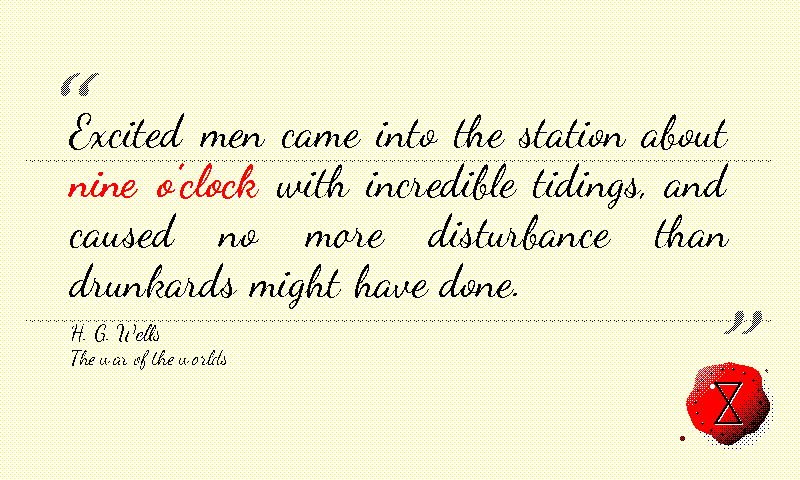
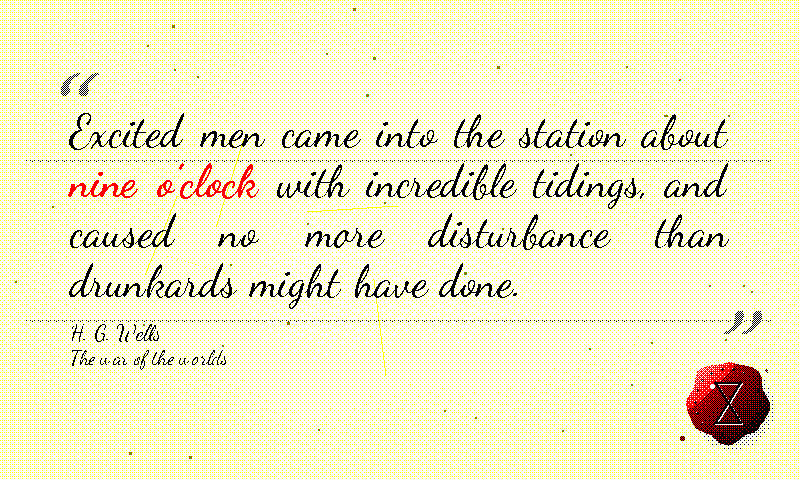
letter: oxblood-maroon seal + aged/crumpled paper texture
Seal: re-anchor the wax dome's shading ramp on maroon (R+K) instead of
pure red. Pure red now survives only on the lit upper-left shoulder,
white dithers in for the coral gloss, and black density climbs past 50%
toward the rim into a near-black core shadow — so the bead reads as a
dark oxblood sealing wax rather than fire-engine red. The matched-phrase
red now echoes the seal's lit highlight rather than matching its body.

Paper: replace the flat 1-in-8 cream wash with three stacked
Spectra-6-native textures so the sheet reads as aged, lightly-crumpled
letter paper — (a) an uneven cream tan (edge vignette + low-amplitude
mottle + fine per-pixel grain jitter), (b) deterministic seeded foxing
(small 2x2/3x3 red/green checkerboard blocks that average to rust-brown,
edge-biased), and (c) crumple creases (the two structured fold creases
plus a few soft tonal wrinkles rendered as a cream ridge + white relief
rather than black scratches). Seeded via _LETTER_PAPER_SEED so renders
stay byte-identical.

Preview thumbnail + CLAUDE.md updated.

https://claude.ai/code/session_01FYZREtpS185ko8mcXkDyp9

Changed region(s): [[0.8438, 0.75, 0.9688, 0.9062]]

diff --git a/idle_hours/render_quote.py b/idle_hours/render_quote.py
@@ -1066,8 +1066,9 @@ THEMES = {
     # with ``dispatch`` / ``illuminated`` / ``herbarium`` / ``mucha``),
     # black iron-gall ink for the flowing Dancing Script body, and
     # sealing-wax red for the matched time phrase — the one passage the
-    # correspondent pressed harder on, tied tonally to the red wax seal
-    # the border stamps into the bottom-right corner. The oversized
+    # correspondent pressed harder on, echoing the lit-red highlight of
+    # the oxblood / maroon wax seal the border stamps into the
+    # bottom-right corner. The oversized
     # opening quote mark renders in Pinyon Script copperplate via the
     # faux-gray ornament path (ornament_dark=black / ornament_light=white
     # → a delicate 50/50 half-density flourish, reading as a pale pen
@@ -10815,9 +10816,16 @@ def draw_cartograph_border(
         draw.line((tcx, tcy - tick_arm, tcx, tcy + tick_arm), fill=black_ink, width=1)
 
 
+# Fixed seed for the letter theme's aged-paper texture (foxing scatter +
+# crumple wrinkles), so re-renders of a given time stay byte-identical —
+# same fixed-seed invariant as ``_SALOON_FOXING`` / ``_FIRMAMENT_STAR_SEED``.
+_LETTER_PAPER_SEED = 0x1E77E2
+
+
 def draw_letter_border(image: Image.Image, colors: dict) -> None:
-    """Wax-sealed letter decoration: aged-paper ground + fold creases +
-    a pressed red wax seal in the bottom-right corner.
+    """Wax-sealed letter decoration: aged, lightly-crumpled paper ground +
+    fold/crumple creases + a pressed oxblood / maroon wax seal in the
+    bottom-right corner.
 
     The composition deliberately stays in the margins so the standard
     literary layout paints the flowing-script body text cleanly on top
@@ -10826,35 +10834,46 @@ def draw_letter_border(image: Image.Image, colors: dict) -> None:
     never reaches the corner the seal occupies). Layers, painted bottom
     to top:
 
-    * **Layer 0 — sparse 1-in-8 yellow-on-white Bayer cream wash.** The
-      documented Y+W cream recipe (same Bayer threshold ``dispatch`` /
-      ``illuminated`` / ``herbarium`` / ``mucha`` use): ~12.5% of the
-      white ``page_bg`` pixels flip to yellow, averaging at panel
-      distance into the faint cream/vellum of aged letter paper. Lives
-      natively on the Spectra-6 palette, so ``snap_image_to_palette`` is
-      a no-op and the script glyph edges stay crisp.
-    * **Two horizontal fold creases** at the thirds of the page — the
-      folds a letter picks up when tucked into an envelope. Drawn as a
-      faint 1 px black stipple (one dot every few pixels) so they read
-      as a soft pressed line rather than a hard rule, with a single
-      lighter "valley" dot row just below each crease for a hint of
-      depth. Text overpaints them, exactly as ink sits over a fold.
+    * **Layer 0 — aged, lightly-crumpled paper.** Three stacked textures,
+      all native to the Spectra-6 palette (so ``snap_image_to_palette``
+      is a no-op and the script glyph edges stay crisp): (a) an **uneven
+      cream tan** — the documented Y+W yellow cream wash, but its density
+      is modulated by a cheap low-frequency mottle field (precomputed
+      per-row / per-column sine tables, no per-pixel trig) plus an
+      edge-weighted vignette, so the sheet tans more at the margins and
+      in soft patches the way real aged paper does rather than as a flat
+      tint; (b) **foxing** — a deterministic seeded scatter of small R+G
+      sepia age spots (the documented brown recipe), biased toward the
+      edges; and (c) **crumple creases** (below).
+    * **Crumple creases** — two horizontal fold creases at the thirds of
+      the page (the folds a letter picks up tucked into an envelope) plus
+      a handful of fainter short random-angle wrinkles (the creases a
+      re-opened sheet keeps). All sparse 1 px black stipple painted only
+      on bare paper / cream, so they read as soft pressed lines without
+      muddying the foxing; the body text overpaints them, exactly as ink
+      sits over a fold.
     * **The wax seal** in the bottom-right corner — the hero graphic.
-      A pressed bead of sealing wax: an irregular scalloped red disc
+      A pressed bead of dark **oxblood / maroon** sealing wax rendered as
+      a glossy dome lit from the upper-left: an irregular scalloped disc
       (two summed sinusoids vary the rim radius so it reads as hand-
-      pressed wax, not a clean circle), a directional oxblood shadow on
-      its lower-right (the documented R+K 1:1 maroon recipe applied via
-      a bbox ``(x+y)&1`` post-pass, but only on the shadow-side pixels,
-      so the bead reads as a lit 3D dome rather than a flat dot), a ring
-      of small maroon beads just inside the rim (the decorative beading a
-      real seal matrix presses into the wax), and a recessed **hourglass
-      emblem** carved into the centre in maroon — the time motif of the
-      clock, embossed into the wax the way a signet stamps a monogram.
-      A couple of tiny maroon spatter flecks beside the seal read as
-      stray drips. The whole seal sits at y≈height-78 / x≈width-72,
-      clear of the centred attribution and the y=14-29 debug-banner band
-      (which is why ``letter`` needs no ``_DEBUG_LABEL_RIGHT_INSET``
-      entry — its only graphic is bottom-right).
+      pressed wax, not a clean circle), shaded per-pixel via a Bayer ramp
+      anchored on maroon (R+K) — pure red survives only on the lit
+      shoulder, white dithers in for a coral gloss at the highlight, and
+      black density climbs past 50% toward the rim so the core shadow
+      deepens to near-black — plus a soft cast shadow stippled onto the
+      paper (offset down-right, fading at its edge) and a solid-white
+      specular hotspot, so the bead reads as a raised 3-D blob standing
+      proud of the page. A ring of small beads just inside the rim (each
+      shaded by its position on the dome — dark dot + a coral highlight
+      on its lit side), and a recessed **hourglass emblem** carved into
+      the centre — the time motif of the clock, each groove a maroon
+      stroke with a coral bevel on its far inner wall so it reads as
+      engraved into the wax. A couple of tiny maroon spatter flecks
+      beside the seal read as stray drips. The whole seal sits at
+      y≈height-78 / x≈width-72, clear of the centred attribution and the
+      y=14-29 debug-banner band (which is why ``letter`` needs no
+      ``_DEBUG_LABEL_RIGHT_INSET`` entry — its only graphic is
+      bottom-right).
     """
     draw = ImageDraw.Draw(image)
     width, height = image.size
@@ -10865,17 +10884,77 @@ def draw_letter_border(image: Image.Image, colors: dict) -> None:
     cream_light = SPECTRA6["yellow"]
     pixels = image.load()
 
-    # Layer 0: sparse 1-in-8 yellow-on-white cream wash. Defence in depth:
-    # only pixels still matching page_bg are touched.
+    sepia_a = SPECTRA6["red"]
+    sepia_b = SPECTRA6["green"]
+    rng = random.Random(_LETTER_PAPER_SEED)
+
+    # ---- Layer 0: aged, lightly-crumpled paper ------------------------
+    # Three stacked textures turn the panel's flat white into an aged
+    # letter sheet, all native to the Spectra-6 palette (every output
+    # pixel is one of the six inks, so palette-snap is a no-op and the
+    # script glyphs that paint on top stay crisp). Deliberately subtle —
+    # the textures should read at arm's length as "old paper", not as a
+    # pattern competing with the handwriting:
+    #
+    #   (a) Uneven cream tan. The yellow cream-wash density is no longer
+    #       uniform — a gentle edge vignette (the sheet tans more at the
+    #       margins) plus a low-amplitude mottle (precomputed per-row /
+    #       per-column sine tables, no per-pixel trig) and a fine per-pixel
+    #       grain jitter, so the cream breaks up into an organic fibrous
+    #       tone instead of a flat tint. Centre ≈9% yellow, corners ≈14%.
+    #   (b) Foxing. A deterministic seeded scatter of small R+G sepia age
+    #       spots (the documented brown recipe — each spot is a ≥1-radius
+    #       cluster carrying both red and green pixels so it averages to
+    #       rust-brown at panel distance rather than reading as a lone
+    #       red/green speck), biased toward the edges where foxing
+    #       concentrates.
+    #   (c) Crumple creases — see below the wash.
     if page_bg is not None:
+        col = [math.sin(x * 0.013) + 0.6 * math.sin(x * 0.031 + 1.7) for x in range(width)]
+        row_mottle = [math.sin(y * 0.015 + 0.5) + 0.6 * math.sin(y * 0.029 + 2.3) for y in range(height)]
+        half_w = max(1.0, width * 0.5)
+        half_h = max(1.0, height * 0.5)
         for y in range(height):
-            row = BAYER_4x4[y & 3]
+            brow = BAYER_4x4[y & 3]
+            ry = row_mottle[y]
+            edge_y = 1.0 - min(y, height - 1 - y) / half_h
             for x in range(width):
-                if pixels[x, y] == page_bg and row[x & 3] < 2:
+                if pixels[x, y] != page_bg:
+                    continue
+                edge_x = 1.0 - min(x, width - 1 - x) / half_w
+                edge = edge_x if edge_x > edge_y else edge_y
+                mottle = (col[x] + ry) * 0.5
+                grain = (((x * 131 + y * 57) % 17) - 8) / 8.0
+                density = 0.085 + 0.05 * (edge * edge) + 0.02 * mottle + 0.02 * grain
+                if brow[x & 3] < density * 16:
                     pixels[x, y] = cream_light
 
-    # Fold creases at the thirds. Faint dotted black line + a lighter
-    # valley row one pixel below. Sparse spacing keeps them subtle.
+        # (b) Foxing: small brown spots, each a square red/green
+        # checkerboard block (2×2 or 3×3) so every spot carries a balanced
+        # red+green pair and averages to rust-brown — a circular mask
+        # would leave colour-imbalanced plus-shapes that read as lone
+        # green or red specks. Biased toward a random edge.
+        n_spots = max(10, (width * height) // 9000)
+        for _ in range(n_spots):
+            fx = int(rng.triangular(0, width - 1, rng.choice((0, width - 1))))
+            fy = int(rng.triangular(0, height - 1, rng.choice((0, height - 1))))
+            spot_w = rng.choice((2, 2, 3))
+            for dy in range(spot_w):
+                for dx in range(spot_w):
+                    px, py = fx + dx, fy + dy
+                    if 0 <= px < width and 0 <= py < height and pixels[px, py] in (page_bg, cream_light):
+                        pixels[px, py] = sepia_a if (px + py) & 1 else sepia_b
+
+    # ---- Crumple creases ----------------------------------------------
+    # Two primary fold creases at the thirds (the folds that put a letter
+    # in an envelope), rendered as a faint dotted black stipple, plus a
+    # few soft random-angle crumple wrinkles rendered *tonally* (a thin
+    # cream ridge with a white highlight relief on its lit side) rather
+    # than as black ink — so they read as the light catching a wrinkle
+    # in the sheet rather than as scratches. All painted only on bare
+    # paper / cream so they don't muddy the foxing; the body text
+    # overpaints them, exactly as ink sits over a fold.
+    paper_tones = (page_bg, cream_light)
     margin = 26
     crease_step = 4
     for frac in (1, 2):
@@ -10883,12 +10962,29 @@ def draw_letter_border(image: Image.Image, colors: dict) -> None:
         if cy + 1 >= height:
             continue
         for x in range(margin, width - margin, crease_step):
-            pixels[x, cy] = ink
-            # Valley dot half a step along, one row down — a sparser,
-            # offset second row reads as the soft shadow of the fold.
+            if pixels[x, cy] in paper_tones:
+                pixels[x, cy] = ink
             vx = x + crease_step // 2
-            if vx < width - margin and (x // crease_step) & 1:
+            if vx < width - margin and (x // crease_step) & 1 and pixels[vx, cy + 1] in paper_tones:
                 pixels[vx, cy + 1] = ink
+
+    # Soft tonal crumple wrinkles: a cream ridge + white highlight relief.
+    if page_bg is not None:
+        for _ in range(5):
+            wx = rng.randint(60, max(61, width - 60))
+            wy = rng.randint(50, max(51, height - 50))
+            angle = rng.uniform(0.0, math.pi)
+            length = rng.randint(50, 130)
+            dxu, dyu = math.cos(angle), math.sin(angle)
+            nxp, nyp = -dyu, dxu  # unit perpendicular → highlight side
+            for s in range(length):
+                px = int(wx + (s - length // 2) * dxu)
+                py = int(wy + (s - length // 2) * dyu)
+                if 0 <= px < width and 0 <= py < height and pixels[px, py] in paper_tones:
+                    pixels[px, py] = cream_light
+                hx, hy = int(px + nxp), int(py + nyp)
+                if 0 <= hx < width and 0 <= hy < height and pixels[hx, hy] in paper_tones:
+                    pixels[hx, hy] = page_bg
 
     # ---- Wax seal (bottom-right) -------------------------------------
     # Scale the seal to the canvas so small preview thumbnails still get a
@@ -10954,14 +11050,20 @@ def draw_letter_border(image: Image.Image, colors: dict) -> None:
     bx1 = min(width - 1, scx + rim)
     by1 = min(height - 1, scy + rim)
 
-    # (3) Dome shading ramp. For every red pixel, ``t`` is the shadow
-    # amount (0 = fully lit, 1 = deepest shadow): a directional term
-    # (dot of the surface offset with the light vector) plus a rim-
-    # darkening term that only bites on the shadow side, so the lit
-    # upper-left shoulder stays bright to the edge (rim light) while the
-    # lower-right curves into core shadow. ``t`` is then ordered-dithered
-    # via the shared 4×4 Bayer matrix into coral highlight / solid red /
-    # maroon, the density ramping smoothly within each band.
+    # (3) Dome shading ramp — maroon-based oxblood wax. For every interior
+    # pixel, ``t`` is the shadow amount (0 = fully lit, 1 = deepest
+    # shadow): a directional term (dot of the surface offset with the
+    # light vector) plus a rim-darkening term that only bites on the
+    # shadow side, so the lit upper-left shoulder stays bright to the edge
+    # (rim light) while the lower-right curves into core shadow. ``t`` is
+    # then ordered-dithered via the shared 4×4 Bayer matrix into a
+    # continuous ramp anchored on **maroon** (the dominant body tone, R+K
+    # ~50/50): pure red survives only on the lit shoulder, white dithers
+    # in for a coral gloss at the very highlight, and black density climbs
+    # past 50% toward the rim so the core shadow deepens to near-black
+    # oxblood. The base ink stays ``wax_red`` (accent) between dithered
+    # pixels, so the dome reads as a dark sealing-wax oxblood rather than
+    # the fire-engine red of the previous revision.
     for py in range(by0, by1 + 1):
         for px in range(bx0, bx1 + 1):
             if pixels[px, py] != wax_red:
@@ -10977,12 +11079,18 @@ def draw_letter_border(image: Image.Image, colors: dict) -> None:
                 t += 0.06 * max(0.0, r2 - 0.55)
             t = max(0.0, min(1.0, t))
             cell = BAYER_4x4[py & 3][px & 3]
-            if t < 0.24:
-                density = (0.24 - t) / 0.24 * 0.6
+            if t < 0.25:
+                # Lit shoulder: white dithered into red for a coral gloss,
+                # brightest at the terminator-free highlight.
+                density = (0.25 - t) / 0.25 * 0.5
                 if cell < density * 16:
                     pixels[px, py] = highlight_ink
-            elif t > 0.60:
-                density = (t - 0.60) / 0.40 * 0.85
+            else:
+                # Body → core shadow: black dithered into red. ~35% black
+                # just below the highlight (warm maroon-red), through ~50%
+                # at the dome's mid-tone (true maroon), up to ~90% at the
+                # rim (near-black oxblood).
+                density = min(0.9, 0.35 + (t - 0.25) * 0.733)
                 if cell < density * 16:
                     pixels[px, py] = maroon_dark
 

diff --git a/CLAUDE.md b/CLAUDE.md
@@ -561,7 +561,7 @@ Imports `pick_quote` in-process (`pick_quote_module.select_quote`) and lays out 
   - `questline` (black night-sky ground / white body / yellow matched-phrase, Press Start 2P pixel face — an 8/16-bit JRPG dialogue scene, the seventh theme to bypass the literary layout entirely, dispatching from `render` into its own `render_questline_frame`. The whole composition is built from chunky pixels: a sky-blue (B+W checkerboard) sky band over a solid-green hill band with a forest-green (G+K) lower lip, a yellow eight-ray sun and two white pixel clouds in the top margin (`_questline_paint_sky`), and a small caped hero sprite — an 8×10 pixmap (`_QUESTLINE_HERO`) scaled ×7 with a red cap / white face / blue tunic / black boots, standing on the hill line at the right (`_questline_paint_sprite`). The quote is presented as **on-screen NPC dialogue** inside a bordered box owning the bottom ~50% of the canvas (`_questline_paint_box`): a navy (blue+black checkerboard) fill with a white double pixel frame (4-px outer rule + an inset inner rule, square corners — the pixel-authentic dialogue-box look, no smooth arcs). The **author becomes the speaker** on a small framed nameplate tab straddling the box's top-left edge (`_questline_paint_nameplate`, uppercased, truncated past 22 chars, yellow-on-navy; falls back to `NARRATOR` when the row has no author so a bare-text quote still gets a speaker). The body text is **left-aligned** (reads as dialogue, not centred prose) via the shared `fit_quote` / `wrap_styled_text` pipeline at `font_max=40` / `font_min=10` / `line_height_mult=1.6` — the high `font_max` lets short quotes scale *up* to fill the box (fit_quote steps the size down only as far as the wrapped lines need to fit the box height), so a one-line quote renders large while a dense one shrinks toward the floor; Press Start 2P reports descent 0, so the generous multiplier supplies the inter-line gap the bitmap cell omits — with the matched time-phrase painted in the `accent` yellow (the classic RPG "highlighted keyword" tint; solid, no stipple reroute needed). A static white ▼ "press to continue" arrow sits in the box's bottom-right (`_questline_paint_arrow`, static — eInk), and a `— from {Title} —` footer runs along the box's bottom inner margin (`_questline_paint_footer`, centred, size 8, truncated to clear the arrow; skipped when the row has no title). Like `marquee`, the digital HH:MM is **never surfaced** — the matched phrase in the dialogue carries the time, which is the whole point of a quote-based fuzzy clock; `time_str` is `del`-asserted at the top of `render_questline_frame` and retained only for dispatch-signature uniformity. Press Start 2P (CodeMan38, OFL — the only pixel/bitmap face in the bundle) carries the body, the matched-phrase accent, and the chrome alike; single weight, so the matched-phrase role reuses Regular and earns its differentiation from the yellow accent alone (comic / dispatch / atomic discipline). Saturation tier `0.7` (dark / saturated ground). Since it still displays a quote it stays in the button-B / auto / random rotation — only `diags` (which surfaces swatches instead of a quote) is in `RANDOM_EXCLUDED_THEMES`. No `_DEBUG_LABEL_RIGHT_INSET` entry — the custom frame paints its own composition and ignores `mode`, like the other frame themes.)
   - `chrono` (twilight-blue gradient sky / white body / yellow matched-phrase, Pixelify Sans — a **16-bit SNES JRPG** dialogue scene (Final Fantasy VI / Chrono Trigger era), the eighth theme to bypass the literary layout entirely, dispatching from `render` into its own `render_chrono_frame`. The deliberate companion / step-up to the 8-bit `questline`: where questline is flat NES bands + chunky monospace Press Start 2P, chrono shows the three things 8-bit hardware couldn't — **gradient-shaded backgrounds**, a **translucent-blue gradient dialogue window with a rounded beveled border**, and a **character portrait sub-window** — in the finer, multi-weight Pixelify Sans. `_chrono_paint_sky` paints an atmospheric twilight: a per-row Bayer **density-ramp gradient** (deep navy B+K at the zenith fading to pure blue at mid-sky, then a rising white-dither haze toward the horizon — the continuous tone flat 8-bit bands can't produce), ~70 deterministic white stars (`_CHRONO_STAR_SEED`, cleared from the moon's disc), a pale white moon with faint sky-blue (B+W) craters, and a **two-range mountain silhouette** (a solid-blue back range + a navy B+K-dithered front range via `_chrono_fill_poly`) for parallax depth. The quote sits in the iconic **FF blue window** (`_chrono_window_fill` paints a navy→blue→faint-sky-blue vertical gradient onto a private tile and pastes it through a rounded-rectangle mask so the corners read soft; `_chrono_window_border` strokes a white rounded double frame with small yellow corner-accent ticks). A **portrait sub-window** (`_chrono_paint_portrait`, same window recipe at smaller scale) carries an ornate, *shaded* **hourglass** — the "portrait" a cutscene frames beside the dialogue, and thematically exact for `chrono` (= time). A hand-built frontal face reads as crude on a 6-ink panel; a geometric object renders cleanly and lets the tonal-dither trick do real work. The hourglass uses **multi-tone shading ramps synthesised from the six inks** (`_CHRONO_ART_TONES`: cream→gold→bronze brass via Y+W / Y / R+Y, amber sand at varying R+Y density, sky-tint glass via B+W) so the brass, glass and sand read as rounded, lit volumes rather than flat shapes. `_chrono_build_hourglass` sculpts it with **vector shapes at a low logical resolution** (a brass frame — capped top/bottom with finials + two shaded side posts — two sky-tinted glass bulbs with specular streaks, and amber sand draining from a dished surface in the upper bulb through the neck as a thin stream onto a mound in the lower bulb; light from the upper-left) drawn into a tone-indexed `L` image; `_chrono_paint_hourglass` upscales it (NEAREST) and dither-maps each tone index to its Spectra-6 colour at absolute panel coordinates so the synthesised tones share a continuous Bayer phase with the rest of the frame. This shape-plus-dither approach is what gets the rounded SNES look out of a 6-ink panel — a flat hand-pixelled sprite cannot. (An earlier revision rendered a shaded anime face here; the geometric hourglass both reads cleaner on the panel and ties the portrait to the theme.) `_chrono_paint_dialogue` prints the **author as a white Pixelify Sans Bold speaker-name header**, then the quote left-aligned below with the matched time-phrase in **yellow Pixelify Sans Bold** — a real weight step on top of the accent colour, the payoff of the variable font (questline's single-weight Press Start 2P differentiates on colour alone). A yellow ▼ continue arrow sits bottom-right; a white `— from {Title} —` footer runs along the window foot (a sky-blue B+W dither was tried but averaged too close to the window fill to stay legible at the footer point size). Like `questline` / `marquee`, the digital HH:MM is **never surfaced** — the matched phrase carries the time; `time_str` is `del`-asserted at the top of `render_chrono_frame`. Saturation tier `0.7` (gradient-blue ground). Stays in the button-B / auto / random rotation. No `_DEBUG_LABEL_RIGHT_INSET` entry — custom frame, ignores `mode`.)
   - `outrun` (black ground / white Oxanium body / synthesised-cyan matched-phrase, **1980s synthwave / Outrun sunset** — the ninth theme to bypass the literary layout entirely, dispatching from `render` into its own `render_outrun_frame`. The "neon" counterpart to the cool digital themes (`nightvision` terminal-green, `chrono` JRPG-blue): where those are screens, outrun is a *poster*. Composition layers (deepest → shallowest): (1) `_outrun_paint_sky` — a two-zone per-row Bayer **density-ramp gradient** giving a continuous deep-indigo-navy zenith (blue + a heavy black wash) → pure blue mid-sky → red-leaning **magenta horizon** (blue + red, red capped at 0.36 so it stays a blue-leaning violet rather than tipping into fire-engine red — red out-luminates blue, so an even mix reads hot); the zone seam is placed exactly where the navy ramp reaches pure blue (black density 0) so it's continuous. All the *warm* colour is reserved for the sun, keeping the quote's white-on-cool contrast high. Plus ~70 deterministic white stars (`_OUTRUN_STAR_SEED`) confined to the dark upper sky above the sun cap. (2) `_outrun_paint_grid` — the dark near-black ground (faint-blue Bayer specks) carries the iconic **neon perspective grid**: magenta verticals fanning from a central vanishing point on the horizon and cyan horizontals marching toward the foot with perspective spacing (y = horizon + span·t², so lines pack near the horizon), plus a bright white horizon line with a cyan under-glow. PIL has no per-pixel line colour, so each grid line is plotted via an integer **Bresenham** point list (`_outrun_line_points`) and coloured per-pixel — verticals alternate red/blue (→ magenta), horizontals alternate green/blue (→ cyan) — so the two-tone neon reads solid at panel distance while staying entirely on the Spectra-6 palette. (3) `_outrun_paint_sun` — the **sliced retrowave half-sun**: the disc centre (`_OUTRUN_SUN_CENTER`) sits *below* the horizon so only the upper cap shows as rising from behind the grid; the visible cap carries a yellow→tangerine→magenta-foot vertical gradient mapped across its *visible* height (golden crown via R+Y at density 0.60, tangerine body via the documented R+Y 5/8:3/8 recipe, magenta foot via R+B melting back into the sky), sliced by horizontal **slits** (left unpainted so the sky shows through) that *widen toward the horizon* — the canonical sliced-sun silhouette. (4) `_outrun_paint_quote` — the literary quote floats in the dark upper sky (`_OUTRUN_QUOTE_RECT`) in solid white Oxanium, centred line-by-line via the shared `fit_quote` / `wrap_styled_text` pipeline, with the matched time-phrase painted as a 50/50 green+blue **cyan** stipple (`draw_text_dithered`) — the classic neon accent — while the body stays solid white for maximum legibility on the navy ground. (5) `_outrun_paint_credits` — author (white) + `— title —` (cyan) below the quote in the condensed Antonio poster-credit face the other custom frames reuse, in the clear sky band between the quote and the rising sun. Like `questline` / `chrono` / `marquee`, the digital HH:MM is **never surfaced** — the matched phrase carries the time; `time_str` is `del`-asserted at the top of `render_outrun_frame`. Every raw PixelAccess write is bounds-clipped so the `/api/preview` thumbnail path (down to ~60 px tall) crops the lower composition rather than raising — same defensive pattern as the chrono / diags frames. Fully deterministic (the only RNG is the seeded star field) so re-renders of a given time are byte-identical. Body face is **Oxanium** (Sev Meyer, OFL — a techno / cyberpunk display sans whose squared geometric terminals read as period-correct 1980s retro-future; variable Weight axis, so the matched-phrase `quote_bold` role pins the Bold instance for a real weight step on top of the cyan accent). Deliberately chosen over the more famous **Orbitron** — Orbitron is the canonical synthwave face but is too wide to hold a dense 200-char literary quote at a legible size across a room, whereas Oxanium's narrower proportions keep long lines readable while preserving the neon-future silhouette. Saturation tier `0.7` (black ground — the neon tones need the dark-ground push). Stays in the button-B / auto / random rotation. No `_DEBUG_LABEL_RIGHT_INSET` entry — custom frame, ignores `mode`.)
-  - `letter` (cream/white aged-paper ground / black Dancing Script body / sealing-wax-red matched phrase, **wax-sealed handwritten letter** — a quote presented as intimate antique correspondence. A literary-layout theme with a `draw_letter_border` painter rather than a custom-render frame, so the standard fit/wrap/justify pipeline lays out the flowing-script body and the border decorates the margins underneath it. Layers: (1) **Layer-0 cream wash** — the documented 1-in-8 yellow-on-white Y+W Bayer recipe shared with `dispatch` / `illuminated` / `herbarium` / `mucha`, warming the panel's flat white to the faint vellum of aged letter paper. (2) **Two horizontal fold creases** at the page thirds — a faint 1 px black stipple (one dot every few px) plus a sparser offset valley row just below each, reading as the soft pressed folds a letter picks up in an envelope; painted before the text so the glyphs sit over the folds the way ink does. (3) **The wax seal** in the bottom-right corner (the hero graphic): an irregular scalloped red disc (two summed sinusoids vary the rim radius so it reads as hand-pressed wax, not a clean circle), a directional **oxblood shadow** on its lower-right via a bbox `(x+y)&1` post-pass flipping only the shadow-side red pixels to black (the documented R+K 1:1 maroon recipe — so the bead reads as a lit 3D dome rather than a flat dot), a ring of small maroon beads just inside the rim (the beading a signet matrix presses into wax), and a recessed **hourglass emblem** carved into the centre in maroon — the time motif of the clock, embossed into the wax the way a signet stamps a monogram — plus a couple of tiny maroon spatter flecks beside the seal for drip character. The seal sits at y≈height-78 / x≈width-72, clear of the centred attribution and the y=14-29 debug-banner band, so `letter` is intentionally absent from `_DEBUG_LABEL_RIGHT_INSET`. The matched time phrase is solid Spectra-6 red (Dancing Script Bold), tying it tonally to the seal — the one passage the correspondent pressed harder on. Same white/black/red palette shape as `default` / `dispatch` / `saloon` but the script body + fold creases + wax seal give it a wholly different silhouette. Fully deterministic so re-renders of a given time are byte-identical. Saturation tier `0.5`.)
+  - `letter` (cream/white aged-paper ground / black Dancing Script body / sealing-wax-red matched phrase, **wax-sealed handwritten letter** — a quote presented as intimate antique correspondence. A literary-layout theme with a `draw_letter_border` painter rather than a custom-render frame, so the standard fit/wrap/justify pipeline lays out the flowing-script body and the border decorates the margins underneath it. Layers: (1) **Layer-0 aged paper** — three stacked Spectra-6-native textures turning the flat white into an old letter sheet: an *uneven cream tan* (the documented Y+W yellow cream wash, but its density modulated by a gentle edge vignette + low-amplitude sine mottle + a fine per-pixel grain jitter so the cream breaks up into an organic fibrous tone, ≈9% yellow at centre rising to ≈14% at the margins), *foxing* (a deterministic seeded scatter of small R+G sepia age spots — each a 2×2/3×3 red/green checkerboard block so it averages to rust-brown rather than reading as a lone speck — biased toward the edges), and the crumple creases below. (2) **Crumple creases** — two horizontal fold creases at the page thirds (faint 1 px black stipple, the envelope folds) plus a few soft random-angle wrinkles rendered *tonally* (a thin cream ridge + a white highlight relief on the lit side, so they read as light catching a wrinkle rather than as black scratches); all painted only on bare paper/cream and overpainted by the body text the way ink sits over a fold. (3) **The wax seal** in the bottom-right corner (the hero graphic): a pressed bead of dark **oxblood / maroon** wax rendered as a glossy dome lit from the upper-left. An irregular scalloped disc (two summed sinusoids vary the rim radius so it reads as hand-pressed wax, not a clean circle), shaded per-pixel via a Bayer ramp anchored on **maroon** (R+K) — pure red survives only on the lit shoulder, white dithers in for a coral gloss at the highlight, and black density climbs past 50% toward the rim so the core shadow deepens to near-black — plus a soft cast shadow stippled onto the paper (offset down-right, fading at its edge) and a solid-white specular hotspot, so the bead reads as a raised 3-D blob standing proud of the page. A ring of small beads just inside the rim (each shaded by its dome position — dark dot + a coral highlight on its lit side), and a recessed **hourglass emblem** carved into the centre — the time motif of the clock, each groove a maroon stroke with a coral bevel on its far inner wall so it reads as engraved into the wax — plus a couple of tiny maroon spatter flecks beside the seal for drip character. The seal sits at y≈height-78 / x≈width-72, clear of the centred attribution and the y=14-29 debug-banner band, so `letter` is intentionally absent from `_DEBUG_LABEL_RIGHT_INSET`. The matched time phrase is solid Spectra-6 red (Dancing Script Bold), echoing the seal's lit-red highlight — the one passage the correspondent pressed harder on. Same white/black/red palette shape as `default` / `dispatch` / `saloon` but the script body + fold creases + wax seal give it a wholly different silhouette. Fully deterministic so re-renders of a given time are byte-identical. Saturation tier `0.5`.)
 - **Fonts.** Typography is per-theme, and each non-default theme deliberately picks a face from a different type *family* so the rendered frame's silhouette changes with the theme — not just its palette. `THEME_FONTS` maps each `THEMES` entry to a dict with `quote_regular` / `quote_bold` / `ornament` candidate chains, each a list of path strings OR `(path, variation_name)` tuples. The tuple form targets variable fonts — `load_font` calls `set_variation_by_name(name)` after the truetype load, so e.g. the scholar theme picks Regular/Bold instances from a single variable `Bitter-Variable.ttf` (whose default axis instance is Thin — a missing variation call would render near-invisible hairlines on the panel). Every per-theme chain ends at the Playfair / DejaVu defaults so a missing-font install degrades to the default face instead of dropping to the PIL bitmap fallback. System metadata / debug strips always use DejaVu / Noto / Liberation Sans regardless of theme. Install `apt install fonts-noto-core fonts-dejavu-core` if the bundled fonts aren't found. When every TTF candidate is missing, `load_font` logs a one-shot warning to stderr before returning `ImageFont.load_default()` so a misconfigured install surfaces instead of silently producing an 8-pixel bitmap render.
   - `default` and `dark` share the Playfair Display chain (transitional / high-contrast serif; repo-local `idle_hours/fonts/`, then common Pi/Linux paths, with DejaVu Serif / Liberation Serif / Noto Serif as system fallbacks).
   - `scholar` uses **Bitter** — a slab serif; even-contrast blocky terminals read as "academic textbook" and sit visually far from Playfair's display-serif silhouette, Regular body + Bold accent.
